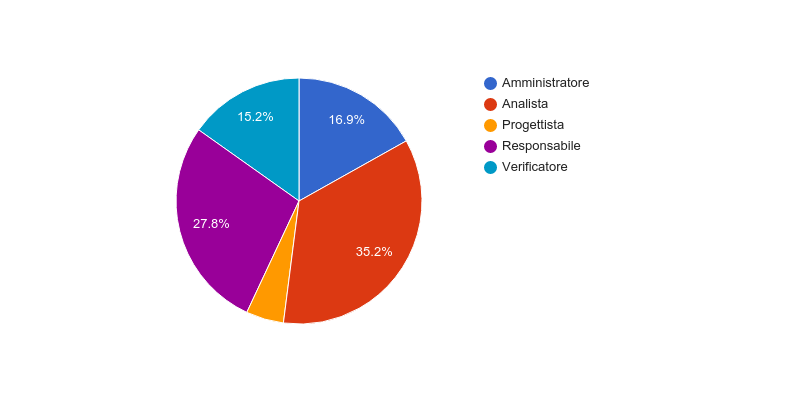
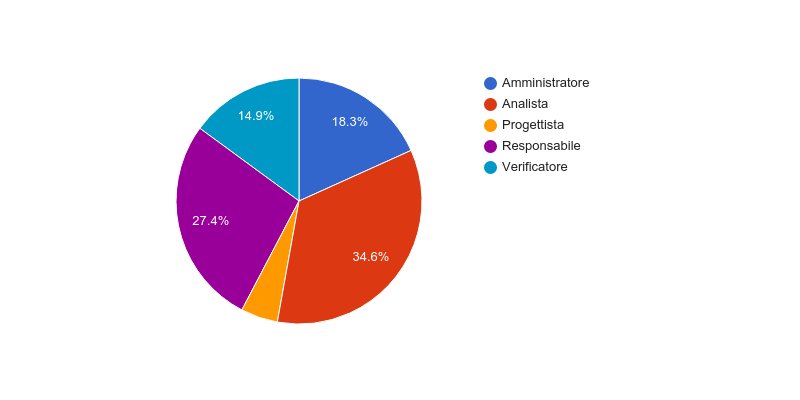
Changed one value on 'Analisi'

diff --git a/RR/PianoDiProgetto/res/sections/prospettoEconomico.tex b/RR/PianoDiProgetto/res/sections/prospettoEconomico.tex
@@ -15,20 +15,20 @@ A scopo di trasparenza viene redatto il prospetto economico riguardante la \glos
 	\begin{tabular}{ l c c }
 		\textbf{Ruolo} & \textbf{Ore} & \textbf{Costo} \\
 		\hline
-		Amministratore & 33 & 600 \euro{} \\
+		Amministratore & 33 & 660 \euro{} \\
 		Analista & 50 & 1250 \euro{} \\
 		Progettista & 8 & 176 \euro{} \\
 		Programmatore & 0 & 0 \euro{} \\
 		Responsabile & 33 & 990 \euro{} \\
 		Verificatore & 36 & 540 \euro{} \\
 		\hline
-		Totale & 160 & 3556 \euro{} \\
+		Totale & 160 & 3616 \euro{} \\
 		\hline
 	\end{tabular}
-	\caption{Ore e costo per ruolo, periodo di Analisi}
+	\caption{Ore e costo per ruolo, \glossaryItem{fase} di Analisi}
 \end{table}
 
-I seguenti grafici mostrano il peso orario e di costo di ogni ruolo in questo periodo.
+I seguenti grafici mostrano il peso orario e di costo di ogni ruolo in questa \glossaryItem{fase}.
 
 \begin{figure}[H]
   \begin{center}
@@ -66,10 +66,10 @@ A scopo di trasparenza viene redatto il prospetto economico riguardante la \glos
 		Totale & 30 & 581 \euro{} \\
 		\hline
 	\end{tabular}
-	\caption{Ore e costo per ruolo, periodo di Analisi}
+	\caption{Ore e costo per ruolo, \glossaryItem{fase} di Analisi}
 \end{table}
 
-I seguenti grafici mostrano il peso orario e di costo di ogni ruolo in questo periodo.
+I seguenti grafici mostrano il peso orario e di costo di ogni ruolo in questa \glossaryItem{fase}.
 
 \begin{figure}[H]
   \begin{center}
@@ -107,10 +107,10 @@ Nella \glossaryItem{fase} di Progettazione Architetturale le ore per ogni ruolo 
 		Totale & 228 & 4507 \euro{} \\
 		\hline
 	\end{tabular}
-	\caption{Ore e costo per ruolo, periodo di Progettazione Architetturale}
+	\caption{Ore e costo per ruolo, \glossaryItem{fase} di Progettazione Architetturale}
 \end{table}
 
-I seguenti grafici mostrano il peso orario e di costo di ogni ruolo in questo periodo.
+I seguenti grafici mostrano il peso orario e di costo di ogni ruolo in questa \glossaryItem{fase}.
 
 \begin{figure}[H]
   \begin{center}
@@ -131,7 +131,7 @@ I seguenti grafici mostrano il peso orario e di costo di ogni ruolo in questo pe
 %-------------------------------------- PROGETTAZIONE DI DETTAGLIO E CODIFICA ------------------------
 %-----------------------------------------------------------------------------------------------------
 \subsection{Progettazione di dettaglio e codifica}
-Nel periodo di Progettazione di Dettaglio e Codifica le ore per ogni ruolo sono state così suddivise:
+Nella \glossaryItem{fase} di Progettazione di Dettaglio e Codifica le ore per ogni ruolo sono state così suddivise:
 
 \begin{table}[H]
 	\centering
@@ -148,10 +148,10 @@ Nel periodo di Progettazione di Dettaglio e Codifica le ore per ogni ruolo sono 
 		Totale & 371 & 730 \euro{} \\
 		\hline
 	\end{tabular}
-	\caption{Ore e costo per ruolo, periodo di Progettazione di Dettaglio e Codifica}
+	\caption{Ore e costo per ruolo, \glossaryItem{fase} di Progettazione di Dettaglio e Codifica}
 \end{table}
 
-I seguenti grafici mostrano il peso orario e di costo di ogni ruolo in questo periodo.
+I seguenti grafici mostrano il peso orario e di costo di ogni ruolo in questa \glossaryItem{fase}
 
 \begin{figure}[H]
   \begin{center}
@@ -172,7 +172,7 @@ I seguenti grafici mostrano il peso orario e di costo di ogni ruolo in questo pe
 %-------------------------------------- VERIFICA E VALIDAZIONE ---------------------------------------
 %-----------------------------------------------------------------------------------------------------
 \subsection{\glossaryItem{Verifica} e \glossaryItem{Validazione}}
-Nel periodo di \glossaryItem{Validazione} le ore per ogni ruolo sono state cosi suddivise:
+Nella \glossaryItem{fase} di \glossaryItem{Validazione} le ore per ogni ruolo sono state cosi suddivise:
 
 \begin{table}[H]
 	\centering
@@ -189,10 +189,10 @@ Nel periodo di \glossaryItem{Validazione} le ore per ogni ruolo sono state cosi 
 		Totale & 106 & 1829 \euro{} \\
 		\hline
 	\end{tabular}
-	\caption{Ore e costo per ruolo, periodo di \glossaryItem{Validazione}}
+	\caption{Ore e costo per ruolo, \glossaryItem{fase} di \glossaryItem{Validazione}}
 \end{table}
 
-I seguenti grafici mostrano il peso orario e di costo di ogni ruolo in questo periodo.
+I seguenti grafici mostrano il peso orario e di costo di ogni ruolo in questa \glossaryItem{fase}.
 
 \begin{figure}[H]
   \begin{center}
@@ -233,7 +233,7 @@ In totale le ore per ogni ruolo sono state così suddivise:
 	\caption{Ore e costo per ruolo, riassunto \glossaryItem{progetto}}
 \end{table}
 
-Il seguente grafico mostra il costo di ogni ruolo durante tutto lo svolgimento del \glossaryItem{progetto}, escluso il periodo di Analisi dei Requisiti.
+Il seguente grafico mostra il costo di ogni ruolo durante tutto lo svolgimento del \glossaryItem{progetto}, esclusa la \glossaryItem{fase} di Analisi dei Requisiti.
 
 \begin{figure}[H]
   \begin{center}
